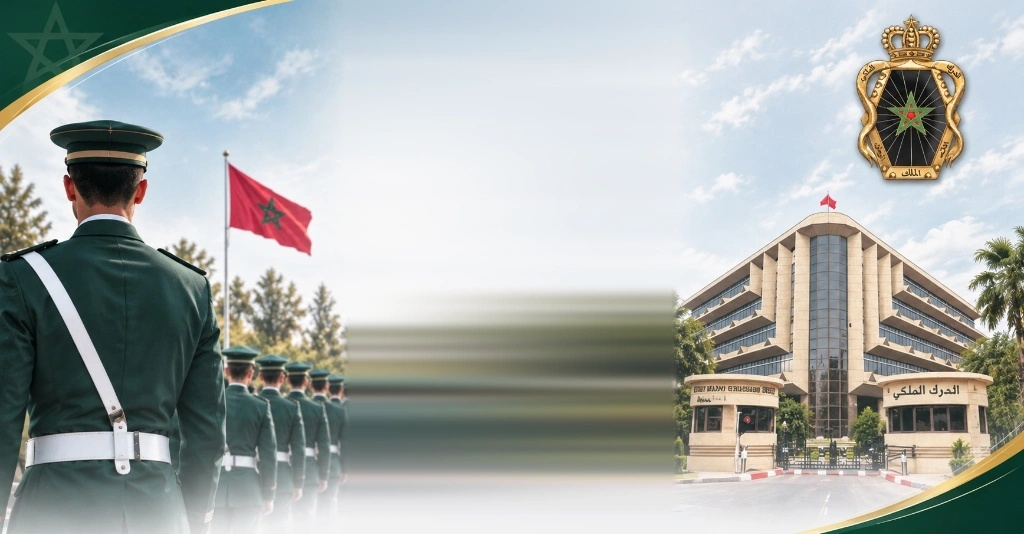
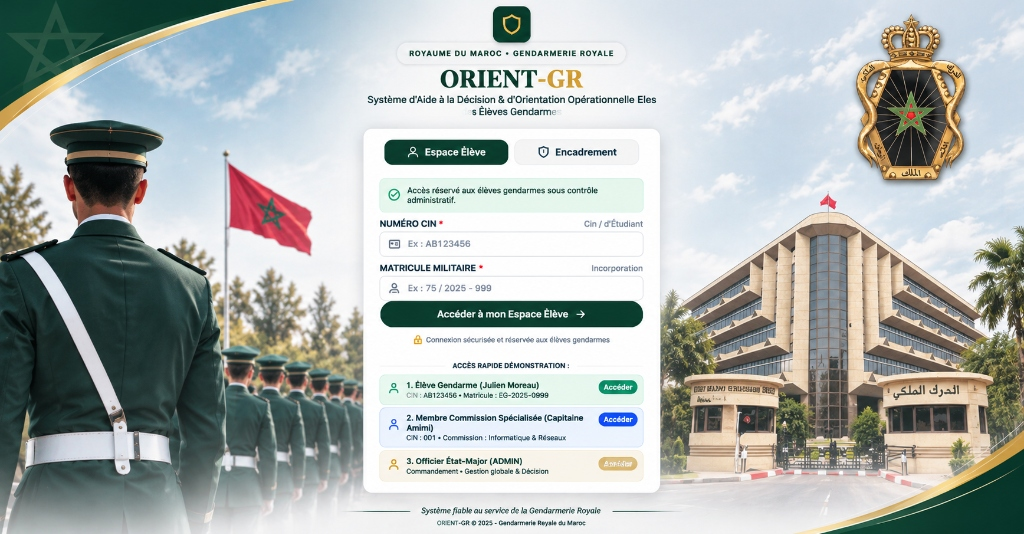
fix(auth): affichage direct et pur de l image originale sans traitement pixel avec object-fit cover et conservation absolue de la carte

diff --git a/frontend/src/pages/public/LoginPage.jsx b/frontend/src/pages/public/LoginPage.jsx
@@ -161,17 +161,16 @@ export default function LoginPage() {
   };
 
   return (
-    <div 
-      className="min-h-screen w-full bg-cover bg-center bg-no-repeat flex flex-col justify-center items-center py-6 sm:py-8 px-4 sm:px-6 relative overflow-x-hidden selection:bg-gold/30"
-      style={{
-        backgroundImage: `url('/images/login-bg.webp?v=20261115_final_single')`,
-        backgroundSize: 'cover',
-        backgroundPosition: 'center',
-        backgroundRepeat: 'no-repeat'
-      }}
-    >
+    <div className="min-h-screen w-full relative flex flex-col justify-center items-center py-6 sm:py-8 px-4 sm:px-6 overflow-x-hidden selection:bg-gold/30">
+      {/* Image originale affichée en arrière-plan sans étirement, sans filtres et sans bandes */}
+      <img 
+        src="/images/login-bg.webp?v=original_clean" 
+        alt="Arrière-plan Gendarmerie Royale" 
+        className="absolute inset-0 w-full h-full object-cover object-center pointer-events-none -z-10 select-none"
+      />
+
       {/* En-tête officiel centré au-dessus de la carte */}
-      <div className="w-full max-w-md sm:max-w-lg mx-auto text-center mb-2.5 sm:mb-3">
+      <div className="w-full max-w-md sm:max-w-lg mx-auto text-center mb-2.5 sm:mb-3 relative z-10">
         {/* Blason / Écusson Vert Gendarmerie avec bordure or */}
         <div className="mx-auto w-11 h-11 sm:w-12 sm:h-12 rounded-2xl bg-[#153B2B] flex items-center justify-center border-2 border-gold/70 shadow-md mb-2">
           <Shield className="w-5 h-5 sm:w-6 sm:h-6 text-gold" />
@@ -194,7 +193,7 @@ export default function LoginPage() {
       </div>
 
       {/* Carte centrale d'authentification à fond blanc opaque */}
-      <div className="w-full max-w-[480px] sm:max-w-[500px] md:max-w-[520px] mx-auto bg-white rounded-2xl sm:rounded-3xl shadow-xl border border-slate-200/90 p-5 sm:p-7">
+      <div className="w-full max-w-[480px] sm:max-w-[500px] md:max-w-[520px] mx-auto bg-white rounded-2xl sm:rounded-3xl shadow-xl border border-slate-200/90 p-5 sm:p-7 relative z-10">
         
         {/* Sélecteur d'espace sous forme d'onglets (Espace Élève / Encadrement) */}
         <div className="bg-slate-100 p-1 rounded-xl flex items-center gap-1 mb-4">
@@ -515,7 +514,7 @@ export default function LoginPage() {
       </div>
 
       {/* Mention de bas de page */}
-      <div className="mt-4 text-center">
+      <div className="mt-4 text-center relative z-10">
         <p className="text-xs font-semibold text-slate-700">
           Système fiable au service de la Gendarmerie Royale
         </p>
